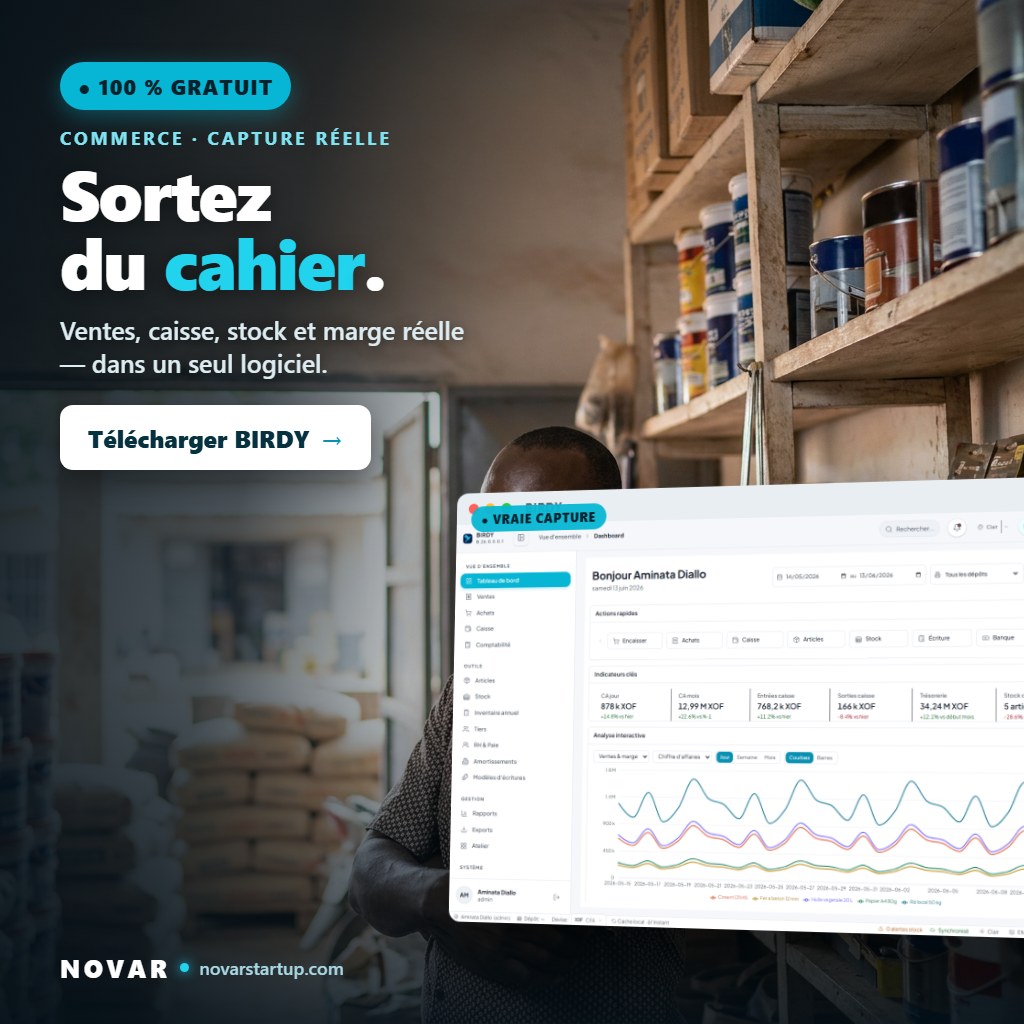
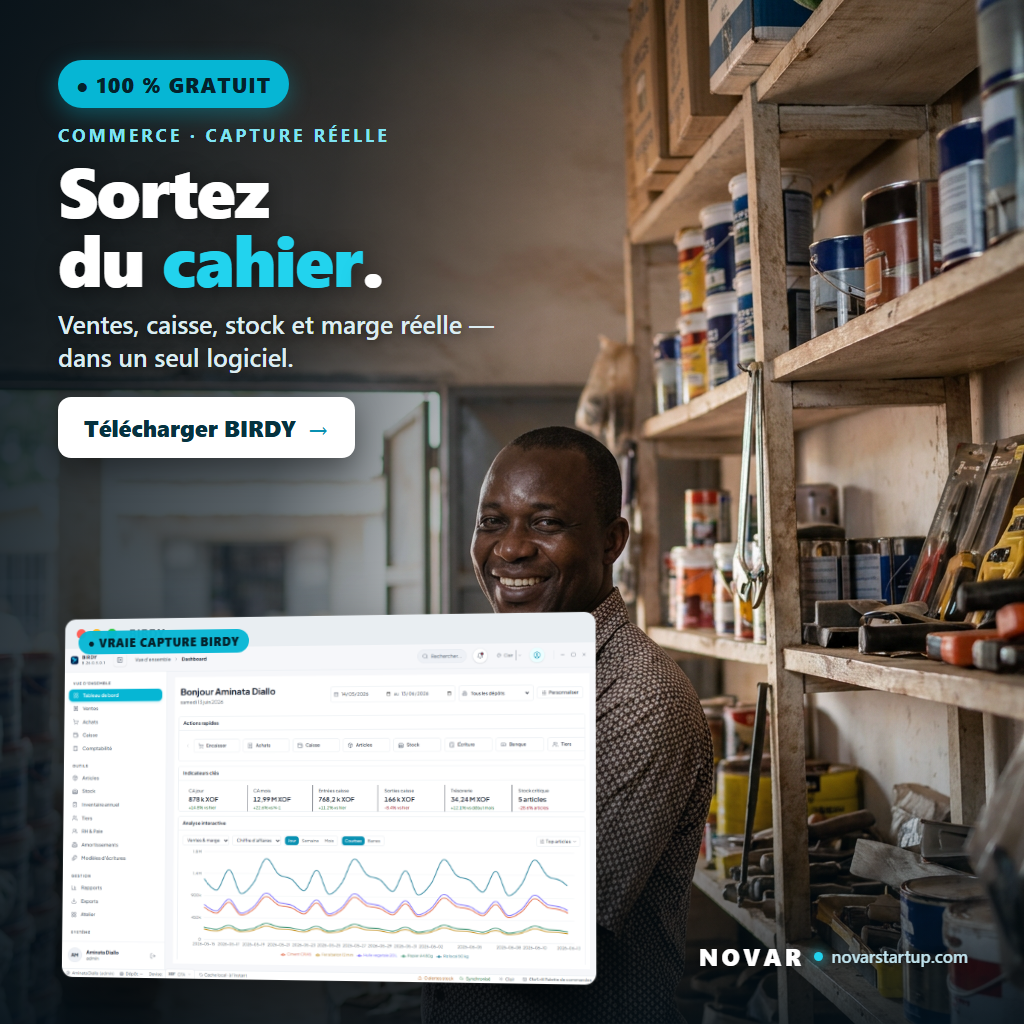
fix(marketing): bannières v2 — encart repositionné, visage dégagé
Retour Djerno : la carte capture masquait le visage. Encart descendu et
réduit (bas-gauche), badge "Vraie capture BIRDY", brand déplacé à droite.
Les 3 personnes (quincaillier, boulangère, réparateur) sont désormais visibles.

diff --git a/marketing/ads/birdy/v2/industrie.html b/marketing/ads/birdy/v2/industrie.html
@@ -2,29 +2,28 @@
 *{margin:0;padding:0;box-sizing:border-box;font-family:-apple-system,'Segoe UI',Roboto,Helvetica,Arial,sans-serif}
 .b{position:relative;width:1024px;height:1024px;overflow:hidden}
 .bg{position:absolute;inset:0;background:url('./bg-industrie.png') center/cover no-repeat}
-.grad{position:absolute;inset:0;background:linear-gradient(102deg,rgba(4,16,24,.94) 0%,rgba(4,16,24,.72) 28%,rgba(4,16,24,.2) 46%,rgba(4,16,24,0) 60%),linear-gradient(0deg,rgba(4,16,24,.85) 0%,rgba(4,16,24,0) 34%)}
-.pad{position:absolute;inset:0;padding:62px 60px;display:flex;flex-direction:column}
+.grad{position:absolute;inset:0;background:linear-gradient(102deg,rgba(4,16,24,.93) 0%,rgba(4,16,24,.66) 30%,rgba(4,16,24,.12) 50%,rgba(4,16,24,0) 64%),linear-gradient(0deg,rgba(4,16,24,.8) 0%,rgba(4,16,24,0) 30%)}
+.pad{position:absolute;inset:0;padding:60px 58px;display:flex;flex-direction:column}
 .badge{display:inline-flex;align-items:center;gap:8px;align-self:flex-start;background:#06b6d4;color:#04222b;font-weight:800;font-size:21px;letter-spacing:.05em;padding:10px 18px;border-radius:999px;text-transform:uppercase;box-shadow:0 6px 22px rgba(6,182,212,.35)}
-.tag{margin-top:16px;color:#7fe3f2;font-weight:700;font-size:18px;letter-spacing:.16em;text-transform:uppercase}
-.hook{margin-top:8px;color:#fff;font-weight:800;font-size:70px;line-height:.98;letter-spacing:-.02em;text-shadow:0 3px 22px rgba(0,0,0,.45)}
+.tag{margin-top:15px;color:#7fe3f2;font-weight:700;font-size:18px;letter-spacing:.16em;text-transform:uppercase}
+.hook{margin-top:8px;color:#fff;font-weight:800;font-size:70px;line-height:.98;letter-spacing:-.02em;text-shadow:0 3px 22px rgba(0,0,0,.5)}
 .hook .c{color:#22d3ee}
-.sub{margin-top:18px;max-width:430px;color:#dcecf1;font-weight:500;font-size:25px;line-height:1.32;text-shadow:0 2px 12px rgba(0,0,0,.55)}
-.cta{margin-top:26px;display:inline-flex;align-self:flex-start;align-items:center;gap:11px;background:#fff;color:#06323f;font-weight:800;font-size:24px;padding:15px 28px;border-radius:13px;box-shadow:0 12px 30px rgba(0,0,0,.4)}
-.cta .a{color:#0891b2;font-size:26px}
-.card{position:absolute;right:-70px;bottom:96px;width:660px;border-radius:12px;overflow:hidden;box-shadow:0 40px 80px rgba(0,0,0,.6),0 0 0 1px rgba(255,255,255,.08);transform:perspective(1500px) rotateY(-11deg) rotateX(3deg)}
-.tb{display:flex;align-items:center;gap:7px;background:#e9eef2;padding:8px 13px}
-.tb i{width:11px;height:11px;border-radius:50%;background:#cbd3d9}
+.sub{margin-top:16px;max-width:440px;color:#dcecf1;font-weight:500;font-size:25px;line-height:1.3;text-shadow:0 2px 12px rgba(0,0,0,.6)}
+.cta{margin-top:24px;display:inline-flex;align-self:flex-start;align-items:center;gap:11px;background:#fff;color:#06323f;font-weight:800;font-size:23px;padding:14px 26px;border-radius:13px;box-shadow:0 12px 30px rgba(0,0,0,.4)}
+.cta .a{color:#0891b2;font-size:25px}
+.card{position:absolute;left:56px;bottom:44px;width:536px;border-radius:11px;overflow:hidden;box-shadow:0 30px 70px rgba(0,0,0,.62),0 0 0 1px rgba(255,255,255,.1);transform:perspective(1500px) rotateY(-7deg) rotateX(2deg)}
+.tb{display:flex;align-items:center;gap:6px;background:#e9eef2;padding:7px 12px}
+.tb i{width:10px;height:10px;border-radius:50%;background:#cbd3d9}
 .tb i:nth-child(1){background:#ff5f57}.tb i:nth-child(2){background:#febc2e}.tb i:nth-child(3){background:#28c840}
-.tb span{margin-left:8px;font-size:13px;font-weight:700;color:#5b6b74;letter-spacing:.03em}
+.tb span{margin-left:7px;font-size:12px;font-weight:700;color:#5b6b74;letter-spacing:.03em}
 .card img{display:block;width:100%}
-.badgereal{position:absolute;left:16px;top:14px;z-index:5;background:rgba(6,182,212,.95);color:#04222b;font-weight:800;font-size:13px;letter-spacing:.05em;padding:5px 11px;border-radius:999px;text-transform:uppercase}
-.brand{position:absolute;left:60px;bottom:40px;display:flex;align-items:center;gap:10px;z-index:6}
-.brand .n{color:#fff;font-weight:800;font-size:25px;letter-spacing:.14em}
+.badgereal{position:absolute;left:14px;top:12px;z-index:5;background:rgba(6,182,212,.96);color:#04222b;font-weight:800;font-size:12px;letter-spacing:.04em;padding:4px 10px;border-radius:999px;text-transform:uppercase}
+.brand{position:absolute;right:56px;bottom:52px;display:flex;align-items:center;gap:9px;z-index:6}
+.brand .n{color:#fff;font-weight:800;font-size:24px;letter-spacing:.14em;text-shadow:0 2px 10px rgba(0,0,0,.6)}
 .brand .d{width:9px;height:9px;border-radius:50%;background:#22d3ee;box-shadow:0 0 12px #22d3ee}
-.brand .p{color:#a9d8e4;font-weight:600;font-size:18px}
+.brand .p{color:#bfe2ec;font-weight:600;font-size:17px;text-shadow:0 2px 10px rgba(0,0,0,.6)}
 </style></head><body>
 <div class="b"><div class="bg"></div><div class="grad"></div>
-<div class="card"><div class="badgereal">● Vraie capture</div><div class="tb"><i></i><i></i><i></i><span>BIRDY</span></div><img src="./cap-industrie.png"></div>
 <div class="pad">
 <span class="badge">● 100 % Gratuit</span>
 <span class="tag">Industrie · capture réelle</span>
@@ -32,5 +31,6 @@
 <div class="sub">Recettes, ordres de fabrication et coût de revient maîtrisés.</div>
 <div class="cta">Télécharger BIRDY <span class="a">→</span></div>
 </div>
+<div class="card"><div class="badgereal">● Vraie capture BIRDY</div><div class="tb"><i></i><i></i><i></i><span>BIRDY</span></div><img src="./cap-industrie.png"></div>
 <div class="brand"><span class="n">NOVAR</span><span class="d"></span><span class="p">novarstartup.com</span></div>
 </div></body></html>

diff --git a/marketing/ads/birdy/v2/commerce.html b/marketing/ads/birdy/v2/commerce.html
@@ -2,29 +2,28 @@
 *{margin:0;padding:0;box-sizing:border-box;font-family:-apple-system,'Segoe UI',Roboto,Helvetica,Arial,sans-serif}
 .b{position:relative;width:1024px;height:1024px;overflow:hidden}
 .bg{position:absolute;inset:0;background:url('./bg-commerce.png') center/cover no-repeat}
-.grad{position:absolute;inset:0;background:linear-gradient(102deg,rgba(4,16,24,.94) 0%,rgba(4,16,24,.72) 28%,rgba(4,16,24,.2) 46%,rgba(4,16,24,0) 60%),linear-gradient(0deg,rgba(4,16,24,.85) 0%,rgba(4,16,24,0) 34%)}
-.pad{position:absolute;inset:0;padding:62px 60px;display:flex;flex-direction:column}
+.grad{position:absolute;inset:0;background:linear-gradient(102deg,rgba(4,16,24,.93) 0%,rgba(4,16,24,.66) 30%,rgba(4,16,24,.12) 50%,rgba(4,16,24,0) 64%),linear-gradient(0deg,rgba(4,16,24,.8) 0%,rgba(4,16,24,0) 30%)}
+.pad{position:absolute;inset:0;padding:60px 58px;display:flex;flex-direction:column}
 .badge{display:inline-flex;align-items:center;gap:8px;align-self:flex-start;background:#06b6d4;color:#04222b;font-weight:800;font-size:21px;letter-spacing:.05em;padding:10px 18px;border-radius:999px;text-transform:uppercase;box-shadow:0 6px 22px rgba(6,182,212,.35)}
-.tag{margin-top:16px;color:#7fe3f2;font-weight:700;font-size:18px;letter-spacing:.16em;text-transform:uppercase}
-.hook{margin-top:8px;color:#fff;font-weight:800;font-size:70px;line-height:.98;letter-spacing:-.02em;text-shadow:0 3px 22px rgba(0,0,0,.45)}
+.tag{margin-top:15px;color:#7fe3f2;font-weight:700;font-size:18px;letter-spacing:.16em;text-transform:uppercase}
+.hook{margin-top:8px;color:#fff;font-weight:800;font-size:70px;line-height:.98;letter-spacing:-.02em;text-shadow:0 3px 22px rgba(0,0,0,.5)}
 .hook .c{color:#22d3ee}
-.sub{margin-top:18px;max-width:430px;color:#dcecf1;font-weight:500;font-size:25px;line-height:1.32;text-shadow:0 2px 12px rgba(0,0,0,.55)}
-.cta{margin-top:26px;display:inline-flex;align-self:flex-start;align-items:center;gap:11px;background:#fff;color:#06323f;font-weight:800;font-size:24px;padding:15px 28px;border-radius:13px;box-shadow:0 12px 30px rgba(0,0,0,.4)}
-.cta .a{color:#0891b2;font-size:26px}
-.card{position:absolute;right:-70px;bottom:96px;width:660px;border-radius:12px;overflow:hidden;box-shadow:0 40px 80px rgba(0,0,0,.6),0 0 0 1px rgba(255,255,255,.08);transform:perspective(1500px) rotateY(-11deg) rotateX(3deg)}
-.tb{display:flex;align-items:center;gap:7px;background:#e9eef2;padding:8px 13px}
-.tb i{width:11px;height:11px;border-radius:50%;background:#cbd3d9}
+.sub{margin-top:16px;max-width:440px;color:#dcecf1;font-weight:500;font-size:25px;line-height:1.3;text-shadow:0 2px 12px rgba(0,0,0,.6)}
+.cta{margin-top:24px;display:inline-flex;align-self:flex-start;align-items:center;gap:11px;background:#fff;color:#06323f;font-weight:800;font-size:23px;padding:14px 26px;border-radius:13px;box-shadow:0 12px 30px rgba(0,0,0,.4)}
+.cta .a{color:#0891b2;font-size:25px}
+.card{position:absolute;left:56px;bottom:44px;width:536px;border-radius:11px;overflow:hidden;box-shadow:0 30px 70px rgba(0,0,0,.62),0 0 0 1px rgba(255,255,255,.1);transform:perspective(1500px) rotateY(-7deg) rotateX(2deg)}
+.tb{display:flex;align-items:center;gap:6px;background:#e9eef2;padding:7px 12px}
+.tb i{width:10px;height:10px;border-radius:50%;background:#cbd3d9}
 .tb i:nth-child(1){background:#ff5f57}.tb i:nth-child(2){background:#febc2e}.tb i:nth-child(3){background:#28c840}
-.tb span{margin-left:8px;font-size:13px;font-weight:700;color:#5b6b74;letter-spacing:.03em}
+.tb span{margin-left:7px;font-size:12px;font-weight:700;color:#5b6b74;letter-spacing:.03em}
 .card img{display:block;width:100%}
-.badgereal{position:absolute;left:16px;top:14px;z-index:5;background:rgba(6,182,212,.95);color:#04222b;font-weight:800;font-size:13px;letter-spacing:.05em;padding:5px 11px;border-radius:999px;text-transform:uppercase}
-.brand{position:absolute;left:60px;bottom:40px;display:flex;align-items:center;gap:10px;z-index:6}
-.brand .n{color:#fff;font-weight:800;font-size:25px;letter-spacing:.14em}
+.badgereal{position:absolute;left:14px;top:12px;z-index:5;background:rgba(6,182,212,.96);color:#04222b;font-weight:800;font-size:12px;letter-spacing:.04em;padding:4px 10px;border-radius:999px;text-transform:uppercase}
+.brand{position:absolute;right:56px;bottom:52px;display:flex;align-items:center;gap:9px;z-index:6}
+.brand .n{color:#fff;font-weight:800;font-size:24px;letter-spacing:.14em;text-shadow:0 2px 10px rgba(0,0,0,.6)}
 .brand .d{width:9px;height:9px;border-radius:50%;background:#22d3ee;box-shadow:0 0 12px #22d3ee}
-.brand .p{color:#a9d8e4;font-weight:600;font-size:18px}
+.brand .p{color:#bfe2ec;font-weight:600;font-size:17px;text-shadow:0 2px 10px rgba(0,0,0,.6)}
 </style></head><body>
 <div class="b"><div class="bg"></div><div class="grad"></div>
-<div class="card"><div class="badgereal">● Vraie capture</div><div class="tb"><i></i><i></i><i></i><span>BIRDY</span></div><img src="./cap-commerce.png"></div>
 <div class="pad">
 <span class="badge">● 100 % Gratuit</span>
 <span class="tag">Commerce · capture réelle</span>
@@ -32,5 +31,6 @@
 <div class="sub">Ventes, caisse, stock et marge réelle — dans un seul logiciel.</div>
 <div class="cta">Télécharger BIRDY <span class="a">→</span></div>
 </div>
+<div class="card"><div class="badgereal">● Vraie capture BIRDY</div><div class="tb"><i></i><i></i><i></i><span>BIRDY</span></div><img src="./cap-commerce.png"></div>
 <div class="brand"><span class="n">NOVAR</span><span class="d"></span><span class="p">novarstartup.com</span></div>
 </div></body></html>

diff --git a/marketing/ads/birdy/v2/service.html b/marketing/ads/birdy/v2/service.html
@@ -2,29 +2,28 @@
 *{margin:0;padding:0;box-sizing:border-box;font-family:-apple-system,'Segoe UI',Roboto,Helvetica,Arial,sans-serif}
 .b{position:relative;width:1024px;height:1024px;overflow:hidden}
 .bg{position:absolute;inset:0;background:url('./bg-service.png') center/cover no-repeat}
-.grad{position:absolute;inset:0;background:linear-gradient(102deg,rgba(4,16,24,.94) 0%,rgba(4,16,24,.72) 28%,rgba(4,16,24,.2) 46%,rgba(4,16,24,0) 60%),linear-gradient(0deg,rgba(4,16,24,.85) 0%,rgba(4,16,24,0) 34%)}
-.pad{position:absolute;inset:0;padding:62px 60px;display:flex;flex-direction:column}
+.grad{position:absolute;inset:0;background:linear-gradient(102deg,rgba(4,16,24,.93) 0%,rgba(4,16,24,.66) 30%,rgba(4,16,24,.12) 50%,rgba(4,16,24,0) 64%),linear-gradient(0deg,rgba(4,16,24,.8) 0%,rgba(4,16,24,0) 30%)}
+.pad{position:absolute;inset:0;padding:60px 58px;display:flex;flex-direction:column}
 .badge{display:inline-flex;align-items:center;gap:8px;align-self:flex-start;background:#06b6d4;color:#04222b;font-weight:800;font-size:21px;letter-spacing:.05em;padding:10px 18px;border-radius:999px;text-transform:uppercase;box-shadow:0 6px 22px rgba(6,182,212,.35)}
-.tag{margin-top:16px;color:#7fe3f2;font-weight:700;font-size:18px;letter-spacing:.16em;text-transform:uppercase}
-.hook{margin-top:8px;color:#fff;font-weight:800;font-size:70px;line-height:.98;letter-spacing:-.02em;text-shadow:0 3px 22px rgba(0,0,0,.45)}
+.tag{margin-top:15px;color:#7fe3f2;font-weight:700;font-size:18px;letter-spacing:.16em;text-transform:uppercase}
+.hook{margin-top:8px;color:#fff;font-weight:800;font-size:70px;line-height:.98;letter-spacing:-.02em;text-shadow:0 3px 22px rgba(0,0,0,.5)}
 .hook .c{color:#22d3ee}
-.sub{margin-top:18px;max-width:430px;color:#dcecf1;font-weight:500;font-size:25px;line-height:1.32;text-shadow:0 2px 12px rgba(0,0,0,.55)}
-.cta{margin-top:26px;display:inline-flex;align-self:flex-start;align-items:center;gap:11px;background:#fff;color:#06323f;font-weight:800;font-size:24px;padding:15px 28px;border-radius:13px;box-shadow:0 12px 30px rgba(0,0,0,.4)}
-.cta .a{color:#0891b2;font-size:26px}
-.card{position:absolute;right:-70px;bottom:96px;width:660px;border-radius:12px;overflow:hidden;box-shadow:0 40px 80px rgba(0,0,0,.6),0 0 0 1px rgba(255,255,255,.08);transform:perspective(1500px) rotateY(-11deg) rotateX(3deg)}
-.tb{display:flex;align-items:center;gap:7px;background:#e9eef2;padding:8px 13px}
-.tb i{width:11px;height:11px;border-radius:50%;background:#cbd3d9}
+.sub{margin-top:16px;max-width:440px;color:#dcecf1;font-weight:500;font-size:25px;line-height:1.3;text-shadow:0 2px 12px rgba(0,0,0,.6)}
+.cta{margin-top:24px;display:inline-flex;align-self:flex-start;align-items:center;gap:11px;background:#fff;color:#06323f;font-weight:800;font-size:23px;padding:14px 26px;border-radius:13px;box-shadow:0 12px 30px rgba(0,0,0,.4)}
+.cta .a{color:#0891b2;font-size:25px}
+.card{position:absolute;left:56px;bottom:44px;width:536px;border-radius:11px;overflow:hidden;box-shadow:0 30px 70px rgba(0,0,0,.62),0 0 0 1px rgba(255,255,255,.1);transform:perspective(1500px) rotateY(-7deg) rotateX(2deg)}
+.tb{display:flex;align-items:center;gap:6px;background:#e9eef2;padding:7px 12px}
+.tb i{width:10px;height:10px;border-radius:50%;background:#cbd3d9}
 .tb i:nth-child(1){background:#ff5f57}.tb i:nth-child(2){background:#febc2e}.tb i:nth-child(3){background:#28c840}
-.tb span{margin-left:8px;font-size:13px;font-weight:700;color:#5b6b74;letter-spacing:.03em}
+.tb span{margin-left:7px;font-size:12px;font-weight:700;color:#5b6b74;letter-spacing:.03em}
 .card img{display:block;width:100%}
-.badgereal{position:absolute;left:16px;top:14px;z-index:5;background:rgba(6,182,212,.95);color:#04222b;font-weight:800;font-size:13px;letter-spacing:.05em;padding:5px 11px;border-radius:999px;text-transform:uppercase}
-.brand{position:absolute;left:60px;bottom:40px;display:flex;align-items:center;gap:10px;z-index:6}
-.brand .n{color:#fff;font-weight:800;font-size:25px;letter-spacing:.14em}
+.badgereal{position:absolute;left:14px;top:12px;z-index:5;background:rgba(6,182,212,.96);color:#04222b;font-weight:800;font-size:12px;letter-spacing:.04em;padding:4px 10px;border-radius:999px;text-transform:uppercase}
+.brand{position:absolute;right:56px;bottom:52px;display:flex;align-items:center;gap:9px;z-index:6}
+.brand .n{color:#fff;font-weight:800;font-size:24px;letter-spacing:.14em;text-shadow:0 2px 10px rgba(0,0,0,.6)}
 .brand .d{width:9px;height:9px;border-radius:50%;background:#22d3ee;box-shadow:0 0 12px #22d3ee}
-.brand .p{color:#a9d8e4;font-weight:600;font-size:18px}
+.brand .p{color:#bfe2ec;font-weight:600;font-size:17px;text-shadow:0 2px 10px rgba(0,0,0,.6)}
 </style></head><body>
 <div class="b"><div class="bg"></div><div class="grad"></div>
-<div class="card"><div class="badgereal">● Vraie capture</div><div class="tb"><i></i><i></i><i></i><span>BIRDY</span></div><img src="./cap-service.png"></div>
 <div class="pad">
 <span class="badge">● 100 % Gratuit</span>
 <span class="tag">Service · capture réelle</span>
@@ -32,5 +31,6 @@
 <div class="sub">Devis, factures et prestations — sans gestion de stock.</div>
 <div class="cta">Télécharger BIRDY <span class="a">→</span></div>
 </div>
+<div class="card"><div class="badgereal">● Vraie capture BIRDY</div><div class="tb"><i></i><i></i><i></i><span>BIRDY</span></div><img src="./cap-service.png"></div>
 <div class="brand"><span class="n">NOVAR</span><span class="d"></span><span class="p">novarstartup.com</span></div>
 </div></body></html>
